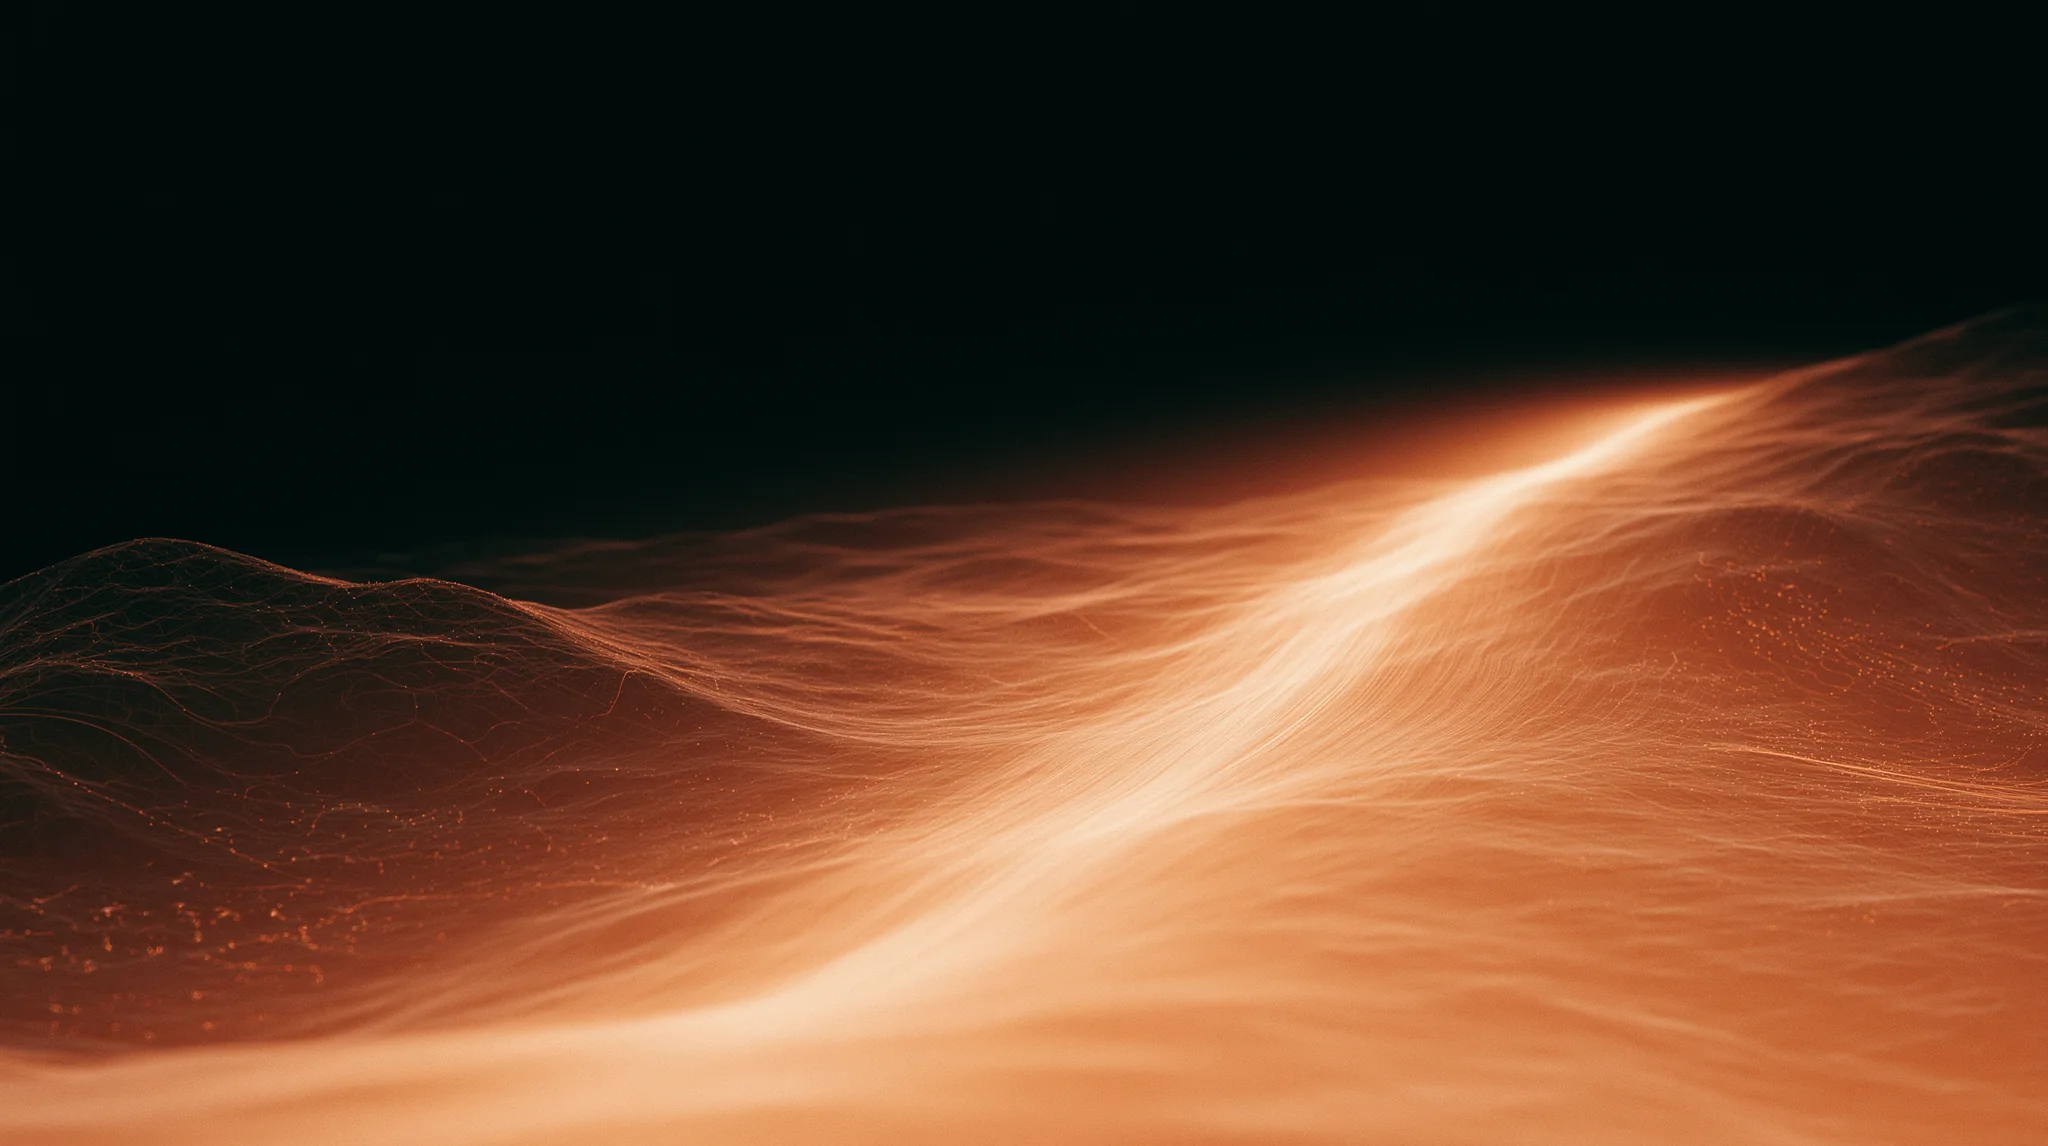
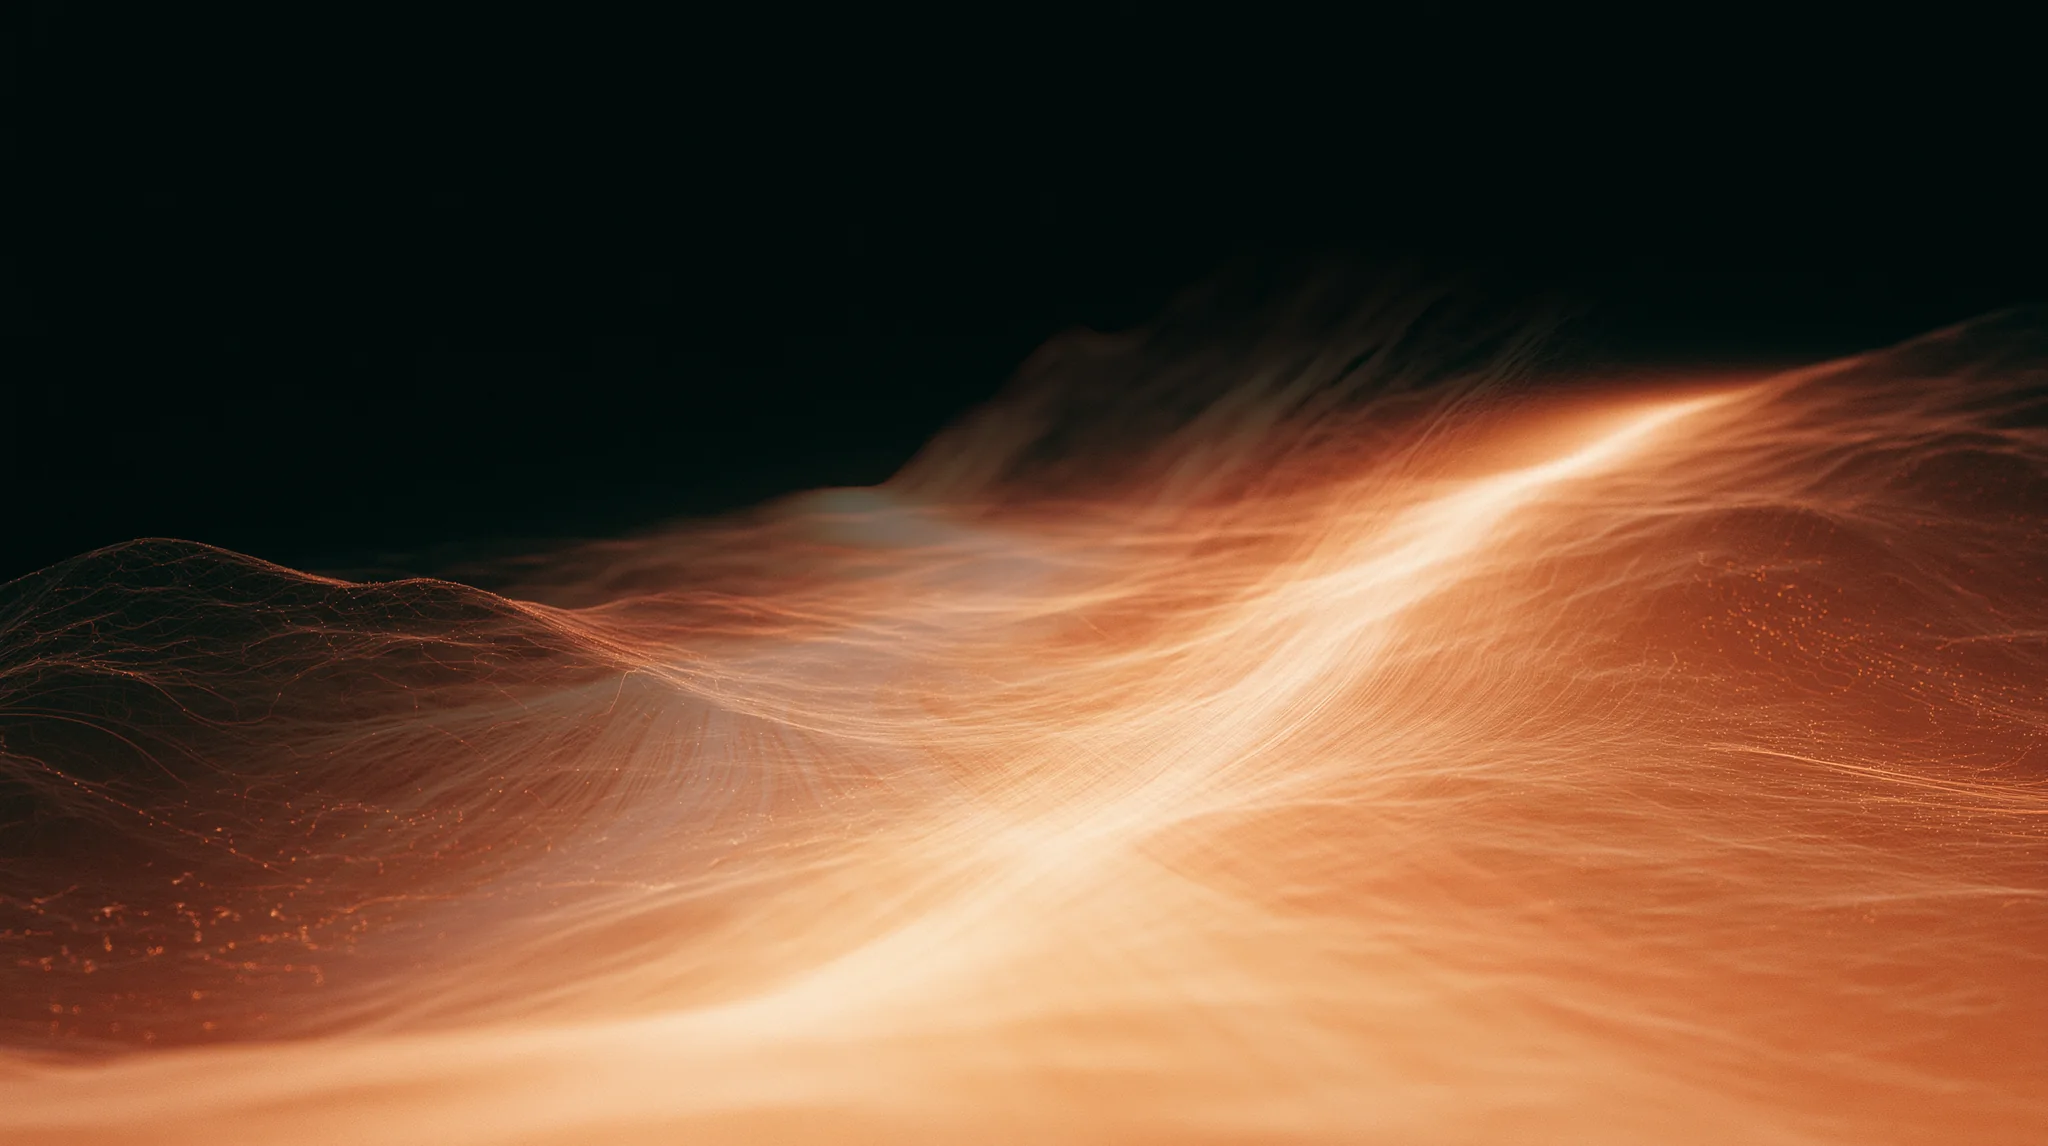
perf: bake light glow into landscape (drop a screen-blend+mask layer)
GPU-composite-bound; the separate `light` layer was a fullscreen
screen-blend + radial-mask composite every frame. Bake the terracotta
glow path into the landscape texture instead (tools/bake-light-into-
landscape.py: screen-blend light over landscape gated by a radial alpha
approximating the runtime mask). Runtime now composites one fewer
blended fullscreen layer.

Measured (headed, prod, 3-run median): 32 -> 35 fps. ZAI-verified the
hero still reads GOOD (glow present + intentional, dark + cinematic,
readability + premium feel preserved).

Changed region(s): [[0.1562, 0.2749, 0.7812, 1.0], [0.7188, 0.3054, 0.75, 0.336]]

diff --git a/src/App.tsx b/src/App.tsx
@@ -3,7 +3,7 @@ import { clamp, smooth, band } from './landscape/math'
 const foregroundUrl = '/assets/optimization-foreground.webp'
 const landscapeUrl = '/assets/optimization-landscape.webp'
 // const depthUrl = '/assets/optimization-depth.webp'  // perf: depth layer dropped
-const lightUrl = '/assets/optimization-light.webp'
+// const lightUrl = '/assets/optimization-light.webp'  // perf: baked into landscape
 
 const ACCENT = '#d97757'
 const INK = '#f3eee9'
@@ -141,7 +141,7 @@ export default function App() {
           <Layer src={landscapeUrl} style={{ zIndex: 1, opacity: .88, transform: `translate3d(${-progress * 3.5}vw,${5 - progress * 10}vh,0) scale(${1.04 + progress * .38})`, filter: 'brightness(.64) saturate(.9) contrast(1.18)', objectPosition: '52% 54%' }} />
           <div style={{ position: 'absolute', zIndex: 2, inset: 0, background: 'linear-gradient(180deg,rgba(3,4,4,.94),rgba(3,4,4,.34) 39%,rgba(3,4,4,.04) 72%,rgba(3,4,4,.44))' }} />
           {/* perf: dropped depth layer (fullscreen screen-blend+mask composite per frame) */}
-          <Layer src={lightUrl} style={{ zIndex: 4, opacity: .07 + core * .42, transform: `translate3d(${5 - progress * 10}vw,${12 - progress * 14}vh,0) scale(${1.05 + progress * .72})`, mixBlendMode: 'screen', filter: 'blur(2.4px) brightness(1.2) saturate(1.12)', maskImage: 'radial-gradient(ellipse at 56% 70%,black 0%,black 42%,transparent 82%)', WebkitMaskImage: 'radial-gradient(ellipse at 56% 70%,black 0%,black 42%,transparent 82%)' }} />
+          {/* perf: light glow baked into landscape (tools/bake-light-into-landscape.py); dropped per-frame screen+mask composite */}
           <Layer src={foregroundUrl} style={{ zIndex: 5, opacity: .17 + (1 - progress) * .15, transform: `translate3d(${-5 - progress * 8}vw,${18 - progress * 30}vh,0) scale(${1.22 + progress * .84})`, mixBlendMode: 'screen', filter: 'blur(1px) brightness(.48) contrast(1.16)', maskImage: 'linear-gradient(to bottom,transparent 8%,transparent 32%,black 71%,black)', WebkitMaskImage: 'linear-gradient(to bottom,transparent 8%,transparent 32%,black 71%,black)', objectPosition: '43% 68%' }} />
           {/* perf: dropped scan-lines (fullscreen masked composite every frame) */}
           {particles.map((p) => (

diff --git a/tools/bake-light-into-landscape.py b/tools/bake-light-into-landscape.py
@@ -1,0 +1,52 @@
+#!/usr/bin/env python3
+"""Bake the `light` (terracotta glow path) layer into `landscape` so the runtime
+can drop a separate screen-blend + masked fullscreen composite (GPU-bound perf).
+
+Reads:  src/assets/optimization-landscape.png, src/assets/optimization-light.png
+Writes: public/assets/optimization-landscape.webp  (landscape with the glow baked in)
+
+The glow is screen-blended onto landscape, gated by a radial alpha that
+approximates the runtime mask `radial-gradient(ellipse at 56% 70%, ... 42% ... 82%)`,
+so the bright path shows but the non-black edges don't wash the scene.
+"""
+from __future__ import annotations
+from pathlib import Path
+import numpy as np
+from PIL import Image
+
+ROOT = Path(__file__).resolve().parent.parent
+SRC = ROOT / 'src' / 'assets'
+DST = ROOT / 'public' / 'assets'
+
+STRENGTH = 0.45      # ~ runtime peak opacity of the light layer
+TARGET_W = 2048
+
+land = Image.open(SRC / 'optimization-landscape.png').convert('RGB')
+light = Image.open(SRC / 'optimization-light.png').convert('RGB')
+if land.size != light.size:
+    raise SystemExit(f'size mismatch: {land.size} vs {light.size}')
+
+L = np.asarray(land, np.float32)
+G = np.asarray(light, np.float32)
+h, w = L.shape[:2]
+
+# Radial alpha ~ CSS mask: opaque near (0.56, 0.70), fades out.
+cx, cy = 0.56 * w, 0.70 * h
+rx, ry = 0.42 * w, 0.42 * h
+nx = (np.arange(w) - cx) / rx
+ny = (np.arange(h) - cy) / ry
+NX, NY = np.meshgrid(nx, ny)
+d = np.sqrt(NX ** 2 + NY ** 2)
+alpha = np.clip(1 - (d - 0.5) / 0.7, 0, 1)        # 1 inside, 0 outside the ellipse
+a = (alpha[..., None] * STRENGTH)                  # H, W, 1
+
+# screen blend: 255 - (255-L)(255-G)/255, weighted by a
+screen = 255.0 - (255.0 - L) * (255.0 - G) / 255.0
+out = L * (1 - a) + screen * a
+out = np.clip(out, 0, 255).astype(np.uint8)
+
+baked = Image.fromarray(out)
+new_h = round(baked.size[1] * TARGET_W / baked.size[0])
+baked = baked.resize((TARGET_W, new_h), Image.LANCZOS)
+baked.save(DST / 'optimization-landscape.webp', 'WEBP', quality=84, method=6)
+print(f'baked glow into landscape -> {DST/"optimization-landscape.webp"}  {baked.size}  {((DST/"optimization-landscape.webp").stat().st_size//1024)}KB')
